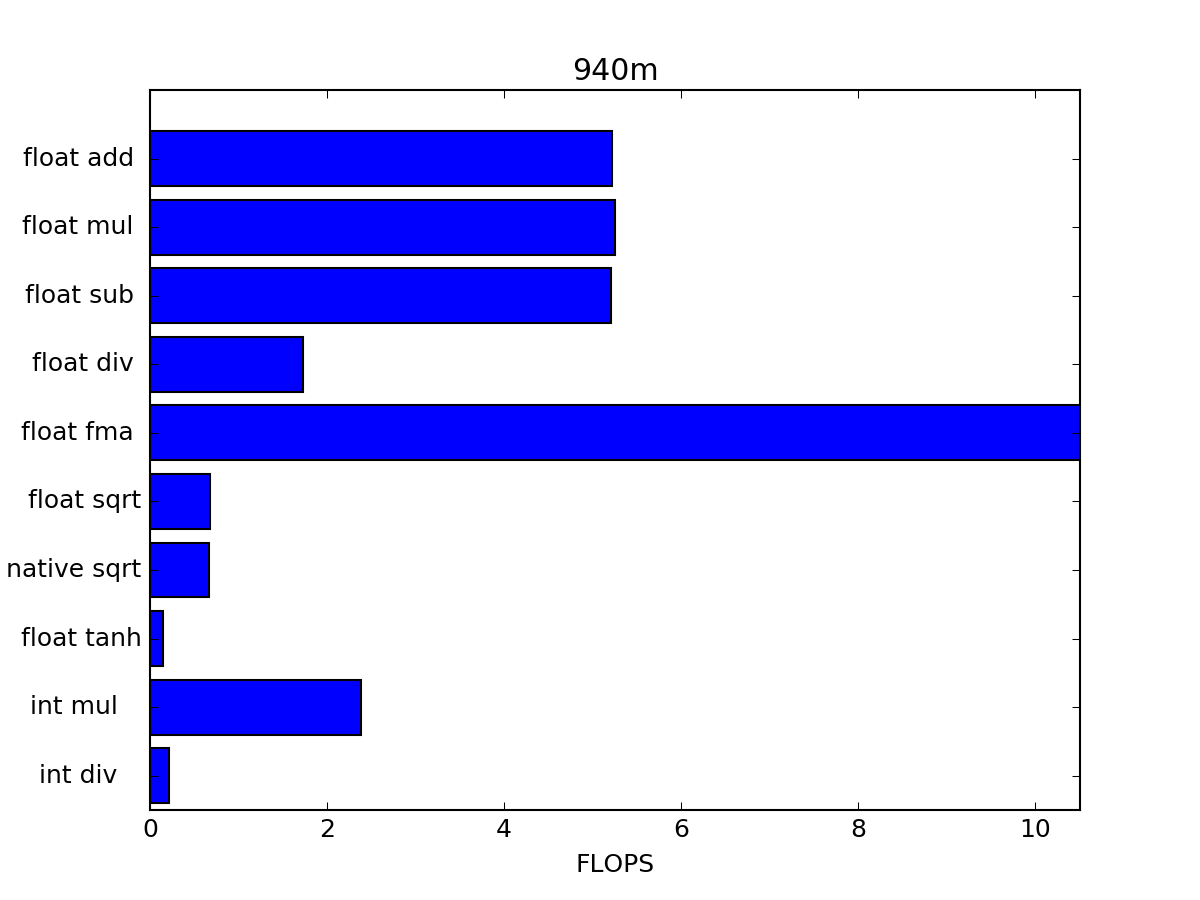
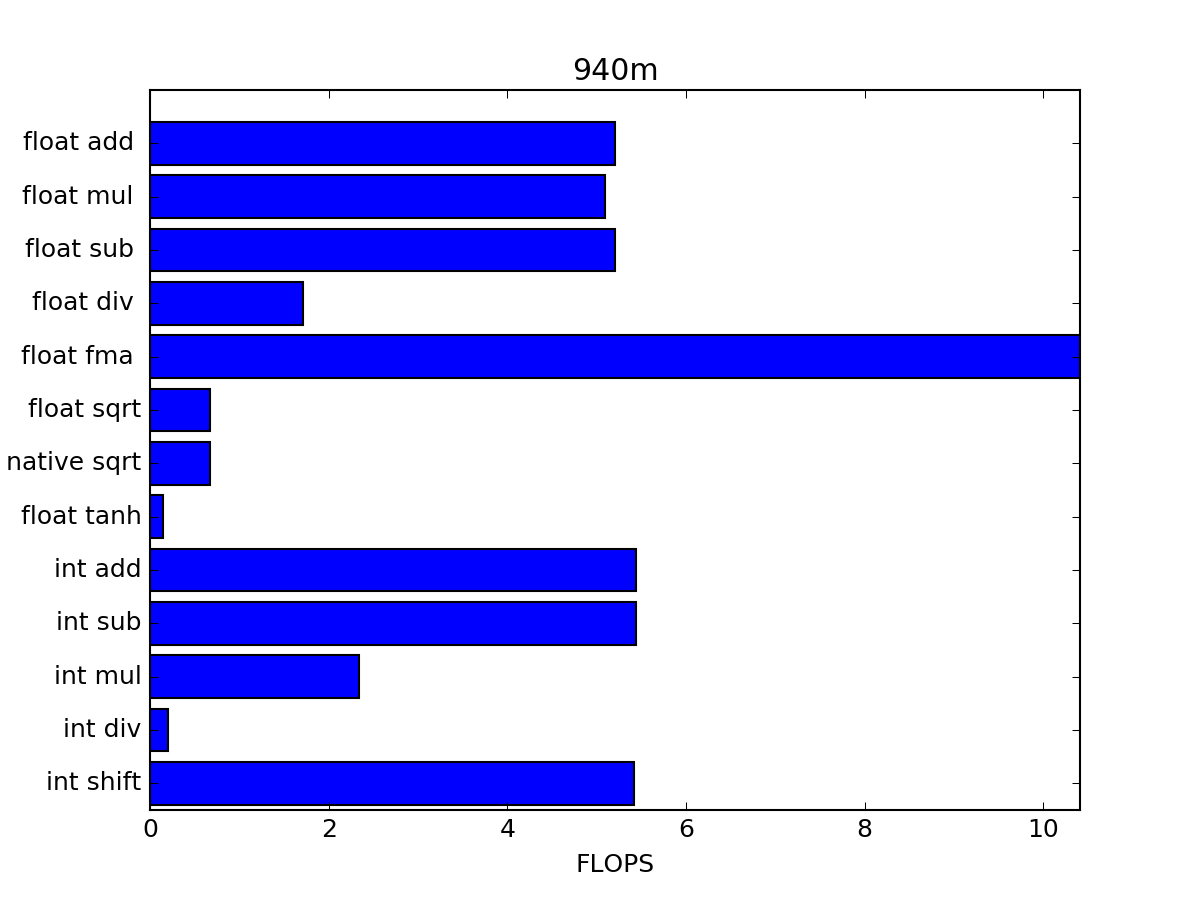
add int add,sub,shift to maths2 experimetns

diff --git a/gpuexperiments/maths2.py b/gpuexperiments/maths2.py
@@ -20,6 +20,7 @@ from lib_clgpuexp import clearComputeCache, getPtx, timeKernel, buildKernel, ini
 
 parser = argparse.ArgumentParser()
 parser.add_argument('--printptx', type=bool, default=False)
+parser.add_argument('--exp')
 args = parser.parse_args()
 
 initClGpu()
@@ -27,7 +28,7 @@ deviceName = lib_clgpuexp.device.get_info(cl.device_info.NAME)
 deviceSimpleName = deviceName.replace('GeForce', '').replace('GTX', '').strip().replace(' ', '').lower()
 
 template = r"""
-    kernel void {{name}}(global {{type}} *data, global {{type}} *out) {
+    kernel void {{kernelname}}(global {{type}} *data, global {{type}} *out) {
         {{type}} a = data[0];
         {{type}} b = data[1];
         {{type}} c = data[2];
@@ -36,6 +37,24 @@ template = r"""
             a = {{op}};
         }
         out[0] = a;
+    }
+"""
+
+template_rand = r"""
+    kernel void {{kernelname}}(global {{type}} *data, global {{type}} *out) {
+        {{type}} a = data[0];
+        {{type}} b = data[1];
+        {{type}} c = data[2];
+        {{type}} d = 0;
+        #pragma unroll {{unroll}}
+        for(int i = 0; i < {{its}}; i++) {
+            //a = {{op}};
+            a = (a * c) >> 2;
+            // d += b;
+            {{op}};
+        }
+        out[0] = a;
+        out[1] = d;
     }
 """
 
@@ -50,27 +69,42 @@ experiments = [
     {'name': '{type}_tanh', 'op': 'tanh(a)', 'type': 'float', 'code': template, 'ops': 1},
 
     {'name': '{type}_mul', 'op': 'a * b', 'type': 'int', 'code': template, 'ops': 1},
-    {'name': '{type}_div', 'op': 'a / b', 'type': 'int', 'code': template, 'ops': 1}
-#    {'name': '{type}_add', 'op': 'a + b', 'type': 'int', 'code': template, 'ops': 1},
+    {'name': '{type}_div', 'op': 'a / b', 'type': 'int', 'code': template, 'ops': 1},
+    {'name': '{type}_randbase', 'op': '', 'type': 'int', 'code': template_rand, 'ops': 0},
+    {'name': '{type}_randbase_add', 'op': 'a = a + b', 'type': 'int', 'code': template_rand, 'ops': 1},
+    {'name': '{type}_randbase_sub', 'op': 'a = a - b', 'type': 'int', 'code': template_rand, 'ops': 1},
+    {'name': '{type}_randbase_mul', 'op': 'a = a * b', 'type': 'int', 'code': template_rand, 'ops': 1},
+    {'name': '{type}_randbase_div', 'op': 'a = a / b', 'type': 'int', 'code': template_rand, 'ops': 1},
+    {'name': '{type}_randbase_shift', 'op': 'a = a << b', 'type': 'int', 'code': template_rand, 'ops': 1},
+    #{'name': '{type}_randbase_shiftshiftadd', 'op': 'a = (a << b) + (a << c)', 'type': 'int', 'code': template, 'ops': 1}
+    #{'name': '{type}_shiftshiftadd', 'op': '(a << 2) + (a <<1 )', 'type': 'int', 'code': template, 'ops': 1}
+    #{'name': '{type}_add', 'op': 'a + b; a = a + c', 'type': 'int', 'code': template, 'ops': 2},
 #    {'name': '{type}_sub', 'op': 'a - b', 'type': 'int', 'code': template, 'ops': 1}
 ]
 
 times = []
-unroll = 256
+unroll = 128
 block = 32
-its = (10000000 // unroll) * unroll
 for experiment in experiments:
+    if args.exp is not None and args.exp not in experiment['name']:
+        continue
     name = experiment['name'].format(**experiment)
     print('name', name)
+    its = 10000000
+    divider = 1
+    if name in ['int_div', 'float_tanh', 'int_randbase_div']:
+        divider = 30
+        its //= divider
+    its = (its // unroll) * unroll
     template = jinja2.Template(experiment['code'], undefined=jinja2.StrictUndefined)
     if args.printptx:
         clearComputeCache()
-    template_dict = {}
-    for k, v in experiment.items():
-        template_dict[k] = v
-    template_dict['name'] = name
-    print(template_dict)
-    source = template.render(its=its, unroll=unroll, **template_dict)
+    #template_dict = {}
+    #for k, v in experiment.items():
+    #    template_dict[k] = v
+    #template_dict['name'] = name
+    # print(template_dict)
+    source = template.render(kernelname=name, its=its, unroll=unroll, **experiment)
 
     kernel = buildKernel(name, source)
     print('built kernel')
@@ -78,6 +112,12 @@ for experiment in experiments:
         t = timeKernel(name, kernel, block_x=block)
     if args.printptx:
         print(getPtx(name))
+    if 'randbase' in name:
+        if name == 'int_randbase':
+            randbase_time = t
+            continue
+        #else:
+        t = t - randbase_time / divider
     gflops = 1/ (t / 1000) * experiment['ops'] * block * its / 1000 / 1000 / 1000
     op_ns = t / its * 1000 * 1000
     times.append({'name': name, 'time': t, 'gflops': gflops, 'op_ns': op_ns})

diff --git a/gpuexperiments/maths2_graphs.py b/gpuexperiments/maths2_graphs.py
@@ -26,14 +26,19 @@ reader = csv.DictReader(f, delimiter='\t')
 for row in reader:
     print('row', row)
     if row['name'] not in ['int_sub', 'int_add']:
-        times.append({'name': row['name'], 'time': float(row['tot ms']), 'gflops': float(row['gflops'])})
+        name = row['name']
+        if 'int' in name and 'randbase' not in name:
+            continue
+        if 'randbase' in name:
+            name = name.replace('randbase_', '')
+        times.append({'name': name, 'time': float(row['tot ms']), 'gflops': float(row['gflops'])})
 #f.readline()
 #for line in f:
     #split_line = line.split('\t')
     #times.append({'name': split_line[0], 'time': float(split_line[1]), 'flops': float(split_line[2])})
 f.close()
 
-print('times', times)
+# print('times', times)
 # sys.exit(1)
 
 labels = []
@@ -55,6 +60,7 @@ plt.axis([0, max(values), -0.5, len(values)])
 plt.yticks(y_pos, labels)
 plt.title(deviceNameSimple)
 plt.xlabel('FLOPS')
+#plt.tick_params(axis='y', pad=-80, direction='in', left='off')
 #plt.ylabel('GFLOPS')
 #legend = plt.legend(loc='lower right') # fontsize='x-large')
 plt.savefig('/tmp/maths2_%s.png' % deviceNameSimple, dpi=150)
